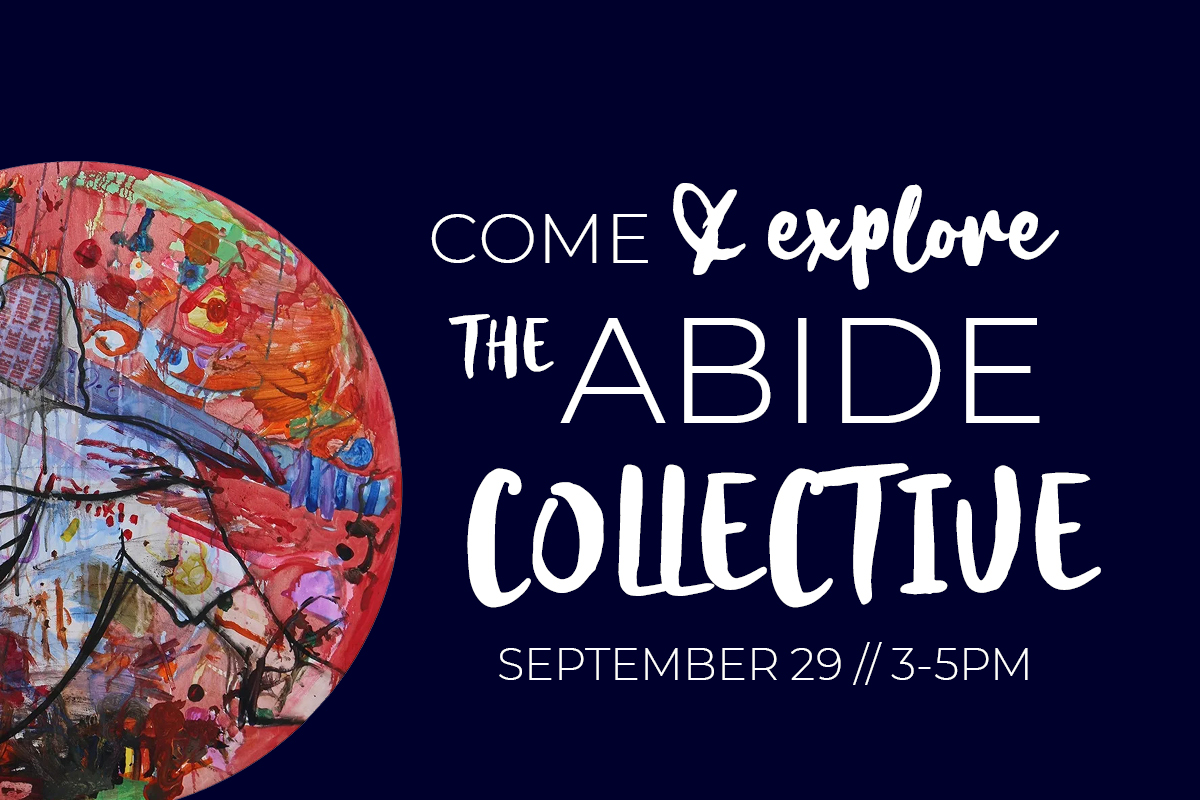
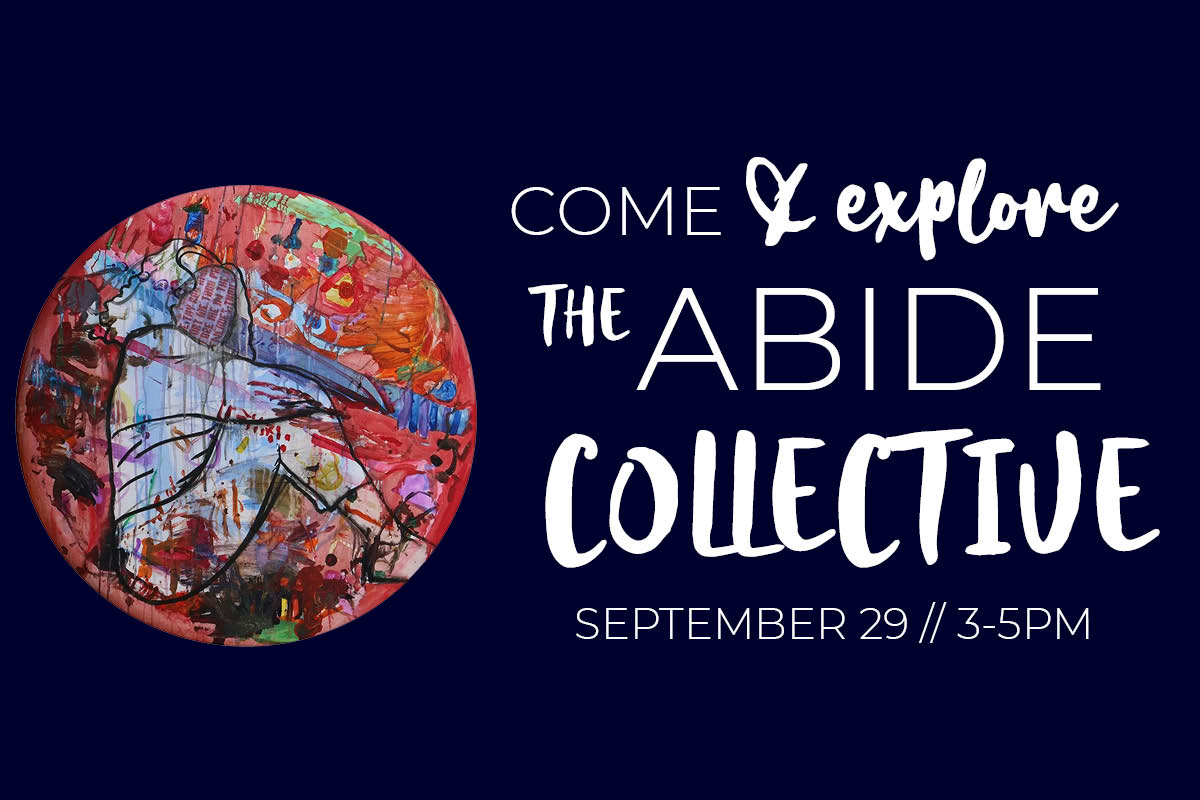
Explore Updates | Remove Vessel

diff --git a/docs/explore/index.html b/docs/explore/index.html
@@ -119,7 +119,7 @@
 
 <h5 id="4-5-pm-reception">4-5 PM Reception</h5>
 
-<p>Join us for a brief get together at the end of the Harbor for refreshements while briefly hearing from each branch of the Abide Collective about how Abide Ministries is helping them accomplish the work they are called to do. We will celebrate and pray together.</p>
+<p>From 4-5pm, join us for a time of sharing and refreshments. Each branch of the Abide Collective will have a chance to share what is happening with their work, and we will conclude by praying together in gratitude for what God has done, as well as God&rsquo;s will for the future.</p>
 
 <h5 id="parking">Parking</h5>
 
@@ -275,19 +275,6 @@
                     </span>
                     <span class="title">Cultivate</span>
                     <span class="description">University Students</span>
-                </a>
-                <h4></h4>
-                <p></p>
-            </div>
-        
-            <div class="col-xs-12 col-sm-6 col-md-3 col-lg-3">
-                <a class="thumbnail" href="/vessel">
-                    <span class="img">
-                        <img src="../images/abide_ministries10.jpg" alt="">
-                        <span class="cover"><span class="more">Ver detalles &rarr;</span></span>
-                    </span>
-                    <span class="title">Vessel</span>
-                    <span class="description">Orphaned Children</span>
                 </a>
                 <h4></h4>
                 <p></p>

diff --git a/docs/css/styles.css b/docs/css/styles.css
@@ -730,6 +730,7 @@ p.version {
 .bg-bottom {background-position:bottom !important;}
 
 /*Explore type*/
+header.explore-img {background-position: top left; background-color: rgb(0,0,44); background-repeat: no-repeat;}
 @media screen and (max-width: 600px) {   
     .explore-img{ background-image: url('../images/explore_header_mobile.jpg'); }
 }
@@ -741,18 +742,21 @@ p.version {
 
 @media screen and (min-width: 768px) and (max-width: 949px) {      
     .explore-img{      
-    	background-image: url('../images/explore_header_mobile.jpg');
+    	background-image: url('../images/explore_header_mobile_767.jpg');
+        background-size: contain !important;
+        background-position: left bottom !important;
     } 
 }
 @media screen and (min-width: 950px) and (max-width: 1259px) {      
     .explore-img{      
     	background-image: url('../images/explore_header_mobile_950.jpg');
-        background-position: center;
     } 
 }
 @media (min-width: 1260px) {      
       .explore-img{        
           background-image: url('../images/explore_header.jpg');
+          background-size: contain !important;
+          background-position: center ! important;
       } 
 }
 

diff --git a/static/css/styles.css b/static/css/styles.css
@@ -730,6 +730,7 @@ p.version {
 .bg-bottom {background-position:bottom !important;}
 
 /*Explore type*/
+header.explore-img {background-position: top left; background-color: rgb(0,0,44); background-repeat: no-repeat;}
 @media screen and (max-width: 600px) {   
     .explore-img{ background-image: url('../images/explore_header_mobile.jpg'); }
 }
@@ -741,18 +742,21 @@ p.version {
 
 @media screen and (min-width: 768px) and (max-width: 949px) {      
     .explore-img{      
-    	background-image: url('../images/explore_header_mobile.jpg');
+    	background-image: url('../images/explore_header_mobile_767.jpg');
+        background-size: contain !important;
+        background-position: left bottom !important;
     } 
 }
 @media screen and (min-width: 950px) and (max-width: 1259px) {      
     .explore-img{      
     	background-image: url('../images/explore_header_mobile_950.jpg');
-        background-position: center;
     } 
 }
 @media (min-width: 1260px) {      
       .explore-img{        
           background-image: url('../images/explore_header.jpg');
+          background-size: contain !important;
+          background-position: center ! important;
       } 
 }
 

diff --git a/docs/donate/index.html b/docs/donate/index.html
@@ -321,19 +321,6 @@ Rochester, MI 48307</p>
             </div>
         
             <div class="col-xs-12 col-sm-6 col-md-3 col-lg-3">
-                <a class="thumbnail" href="/vessel">
-                    <span class="img">
-                        <img src="../images/abide_ministries10.jpg" alt="">
-                        <span class="cover"><span class="more">Ver detalles &rarr;</span></span>
-                    </span>
-                    <span class="title">Vessel</span>
-                    <span class="description">Orphaned Children</span>
-                </a>
-                <h4></h4>
-                <p></p>
-            </div>
-        
-            <div class="col-xs-12 col-sm-6 col-md-3 col-lg-3">
                 <a class="thumbnail" href="/beholders">
                     <span class="img">
                         <img src="../images/abide_ministries2.jpg" alt="">

diff --git a/docs/index.html b/docs/index.html
@@ -241,19 +241,6 @@
             </div>
         
             <div class="col-xs-12 col-sm-6 col-md-3 col-lg-3">
-                <a class="thumbnail" href="/vessel">
-                    <span class="img">
-                        <img src="../images/abide_ministries10.jpg" alt="">
-                        <span class="cover"><span class="more">Ver detalles &rarr;</span></span>
-                    </span>
-                    <span class="title">Vessel</span>
-                    <span class="description">Orphaned Children</span>
-                </a>
-                <h4></h4>
-                <p></p>
-            </div>
-        
-            <div class="col-xs-12 col-sm-6 col-md-3 col-lg-3">
                 <a class="thumbnail" href="/beholders">
                     <span class="img">
                         <img src="../images/abide_ministries2.jpg" alt="">

diff --git a/docs/about/index.html b/docs/about/index.html
@@ -186,14 +186,6 @@
                     <span class="description">University Students</span>
                 </a>
         
-                <a class="thumbnail" href="/vessel">
-                    <span class="img">
-                        <img src="../images/abide_ministries10.jpg" alt="">
-                    </span>
-                    <span class="title">Vessel</span>
-                    <span class="description">Orphaned Children</span>
-                </a>
-        
                 <a class="thumbnail" href="/beholders">
                     <span class="img">
                         <img src="../images/abide_ministries2.jpg" alt="">

diff --git a/content/explore.md b/content/explore.md
@@ -17,7 +17,7 @@ Each branch of the Abide Collective will be in a different spot along the Riverf
 
 ##### 4-5 PM Reception
 
-Join us for a brief get together at the end of the Harbor for refreshements while briefly hearing from each branch of the Abide Collective about how Abide Ministries is helping them accomplish the work they are called to do. We will celebrate and pray together. 
+From 4-5pm, join us for a time of sharing and refreshments. Each branch of the Abide Collective will have a chance to share what is happening with their work, and we will conclude by praying together in gratitude for what God has done, as well as God's will for the future. 
 
 ##### Parking
 
